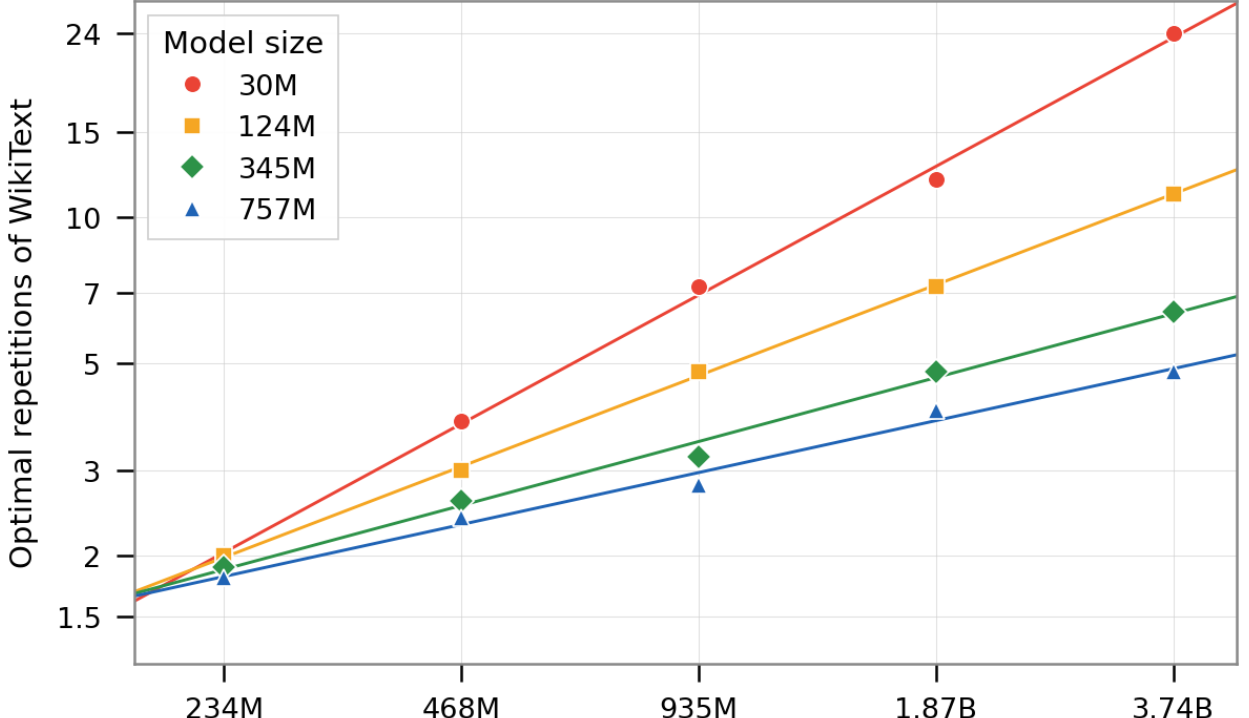
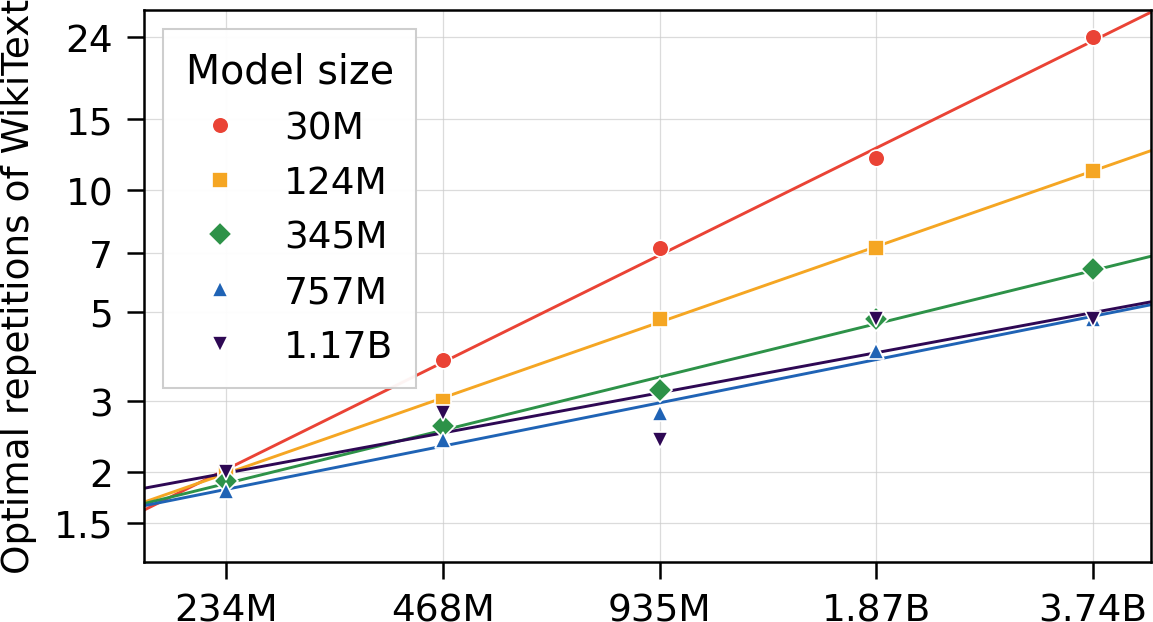
update index.html

diff --git a/index.html b/index.html
@@ -82,7 +82,11 @@
                 <h2 id="news" style="font-weight: 550;">News</h2>
 
                 <p class="page">
-                  <b>Aug 2026</b> <a href="https://arxiv.org/abs/2606.07597", target="_blank">Repetition Mismatch: Why Data Mixture Experiments Don't Scale and How to Fix Them</a> accepted to EMNLP main!
+                  <b>Sep 2026</b> <a href="https://arxiv.org/abs/2602.05125", target="_blank">RRD</a> accepted at NeurIPS! And <a href="https://arxiv.org/abs/2510.24081", target="_blank">Global PIQA</a>, a large community effort I was part of, also accepted (D&E track)
+                </p>
+
+                <p class="page">
+                  <b>Aug 2026</b> <a href="https://arxiv.org/abs/2606.07597", target="_blank">Repetition Mismatch: Why Data Mixture Experiments Don't Scale and How to Fix Them</a> accepted at EMNLP main!
                 </p>
 
                 <p class="page">
@@ -90,15 +94,11 @@
                 </p>
 
                 <p class="page">
-                  <b>Dec 2025</b> Going to NeurIPS to present our work on <a href="https://arxiv.org/abs/2505.15795", target="_blank">Reinforcement Learning for Reverse Engineering (RLRE)</a> ✈
-                </p>
-
-                <p class="page">
-                  <b>Sep 2025</b> <a href="https://arxiv.org/abs/2505.15795", target="_blank">Reverse Engineering Human Preferences with Reinforcement Learning</a> accepted at NeurIPS as a spotlight ✨
+                  <b>Sep 2025</b> <a href="https://arxiv.org/abs/2505.15795", target="_blank">Reverse Engineering Human Preferences with Reinforcement Learning</a> accepted at NeurIPS as a spotlight! ✨
                 </p>
                 
                 <p class="page">
-                  <b>Sep 2025</b> <a href="https://arxiv.org/abs/2502.08550", target="_blank">No Need for Explanations: LLMs can implicitly learn from mistakes in-context</a> accepted at EMNLP as an oral 🎉
+                  <b>Sep 2025</b> <a href="https://arxiv.org/abs/2502.08550", target="_blank">No Need for Explanations: LLMs can implicitly learn from mistakes in-context</a> accepted at EMNLP as an oral
                 </p>
 
               </td>
@@ -131,7 +131,7 @@
               <br>
               William F. Shen, Xinchi Qiu, Chenxi Whitehouse, <strong>Lisa Alazraki</strong>, Shashwat Goel, Francesco Barbieri, Timon Willi, Akhil Mathur, Ilias Leontiadis
               <br>
-                <em>arXiv 2026</em> 
+                <em>NeurIPS 2026</em> 
               <br>
                 <a href="https://arxiv.org/abs/2602.05125", target="_blank">paper</a>          
             </td>
@@ -396,7 +396,7 @@
               <h2 id="service" style="font-weight: 550;">Service</h2>
 
               <p>
-                <b>Conference reviewing:</b>&nbsp;&nbsp;&nbsp;&nbsp;ARR 2024-26, COLING 2025, COLM 2025-26, ICML 2026 (Gold Reviewer), NeurIPS 2026
+                <b>Conference reviewing:</b>&nbsp;&nbsp;&nbsp;&nbsp;AAAI ‘26, ARR ‘24-26, COLING ‘25, COLM ‘25-26, ICML ‘26 (Gold Reviewer), NeurIPS ‘26
                 <br>
                 <b>Workshop reviewing:</b>&nbsp;&nbsp;&nbsp;&nbsp;&nbsp;&nbsp;&nbsp;ACL-SRW ‘25, AI4Math @ICML ‘26, BuildingTrust @ICLR ‘25, ICBINB @ICLR ‘25, MARW @AAAI ‘25 
                 <br>
